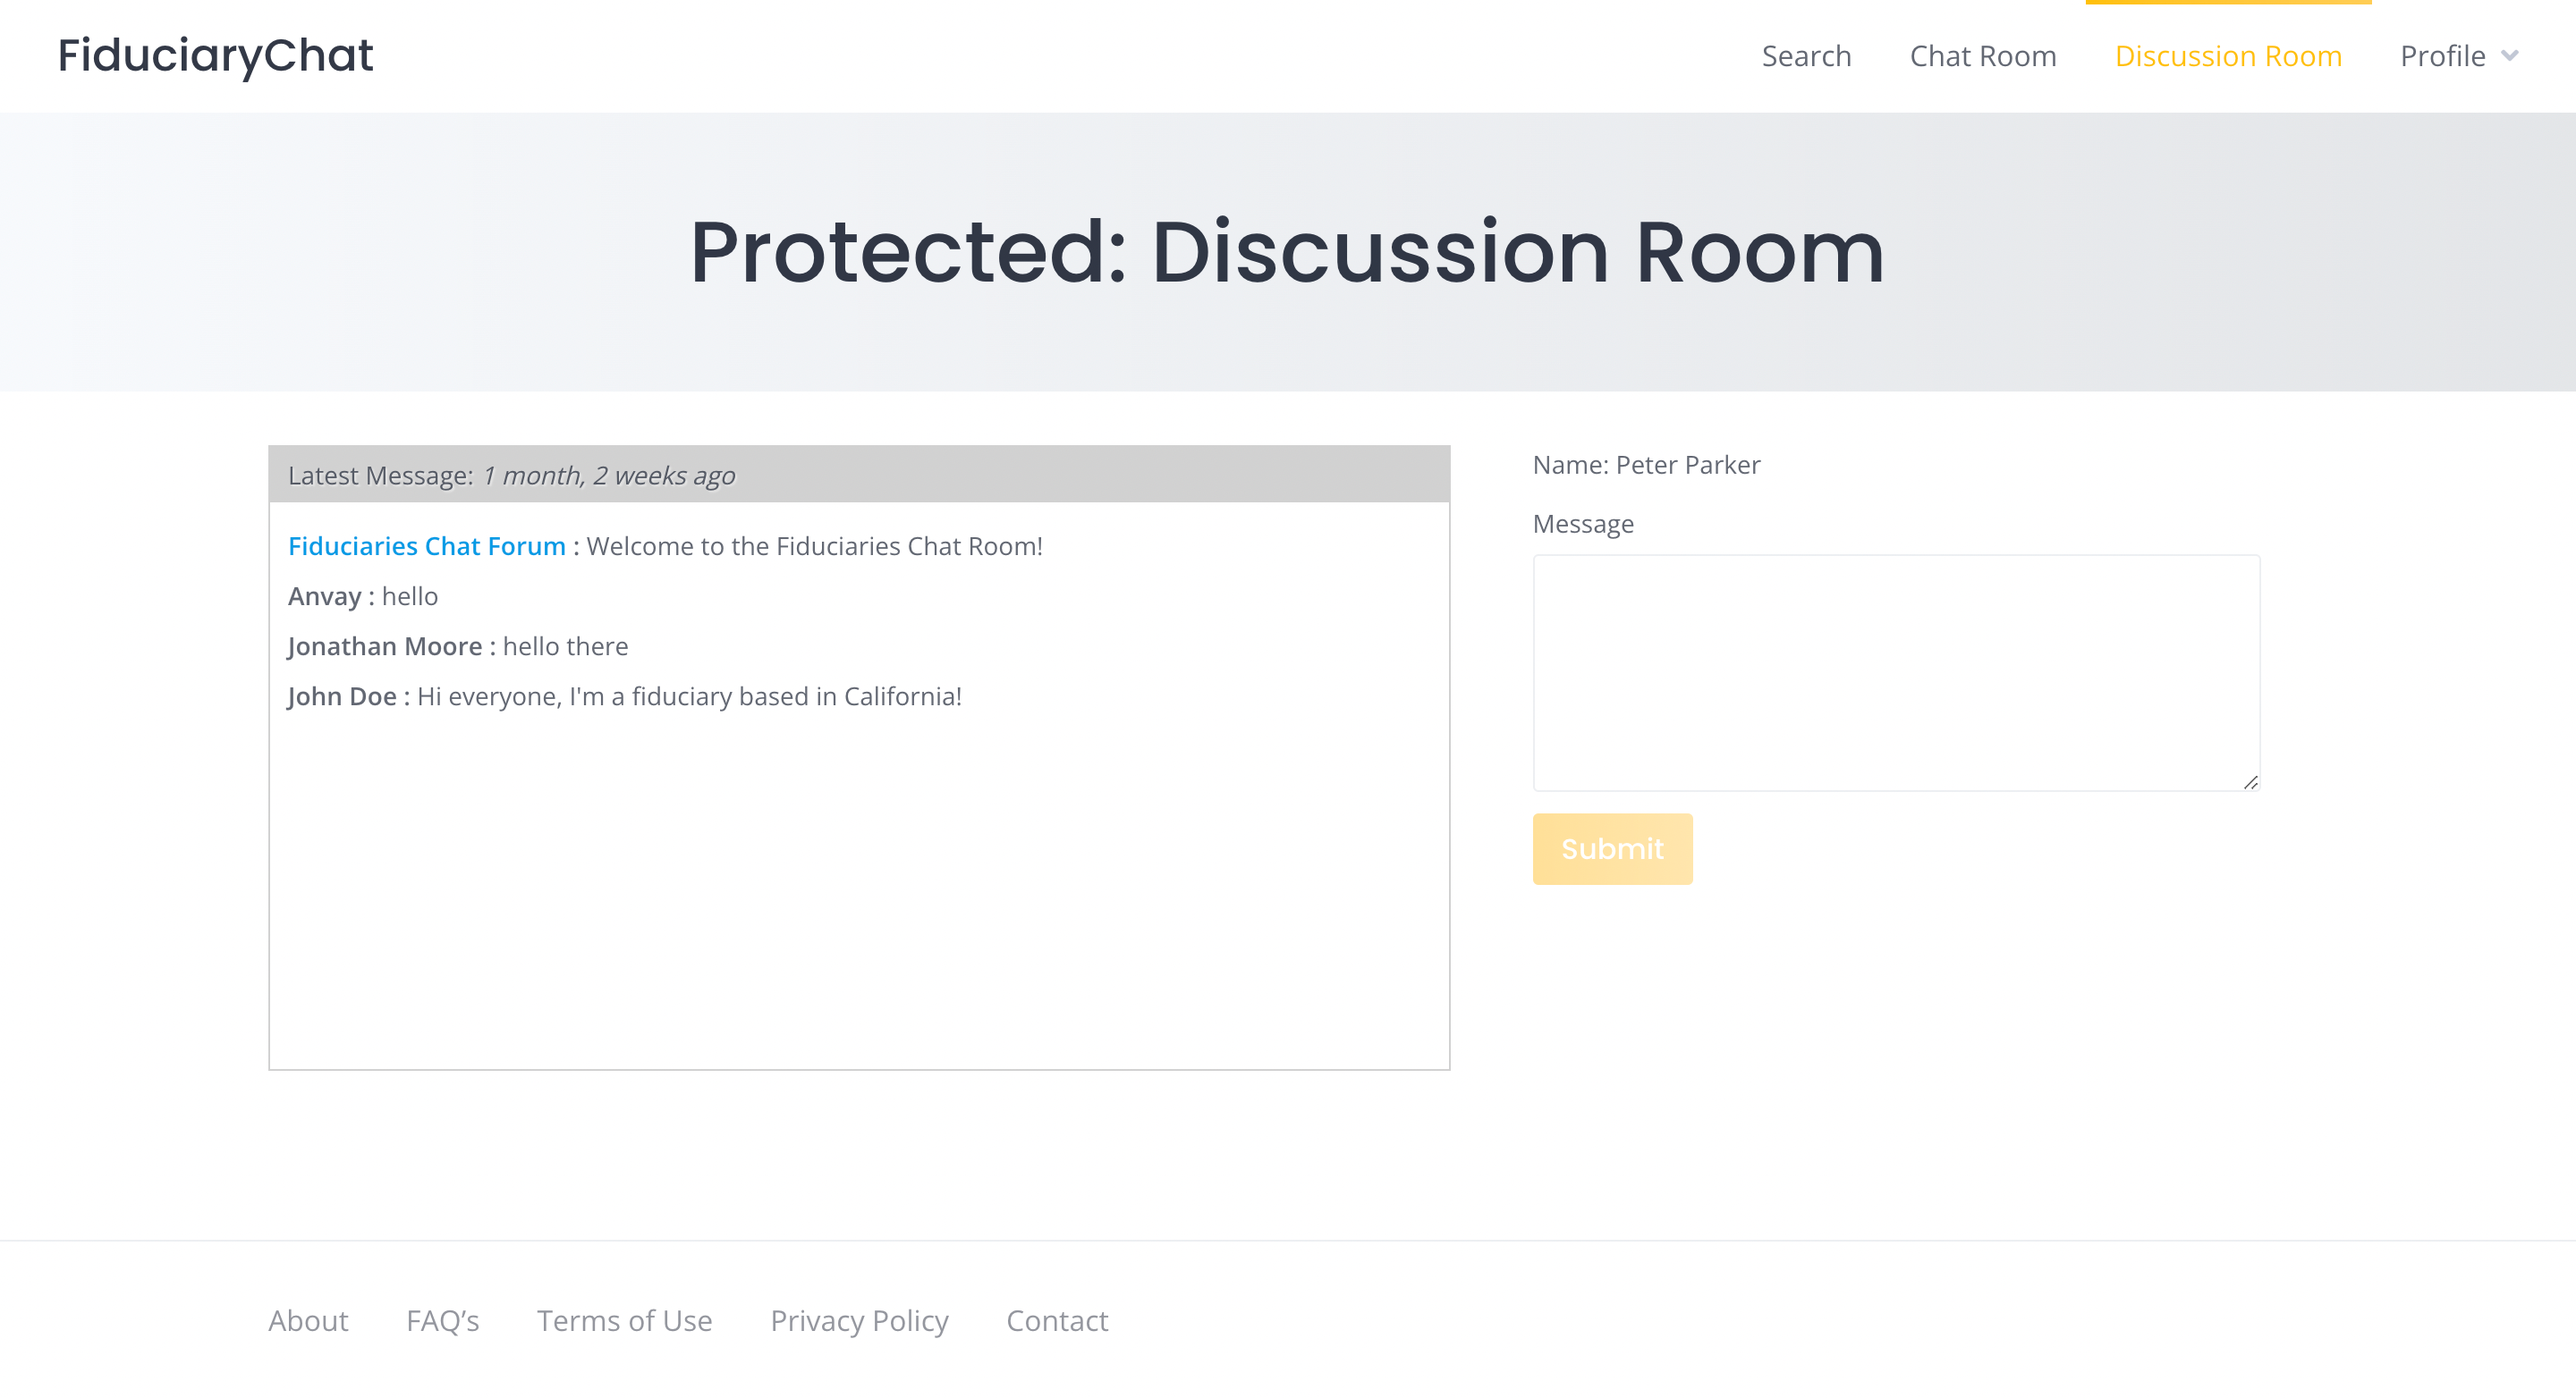
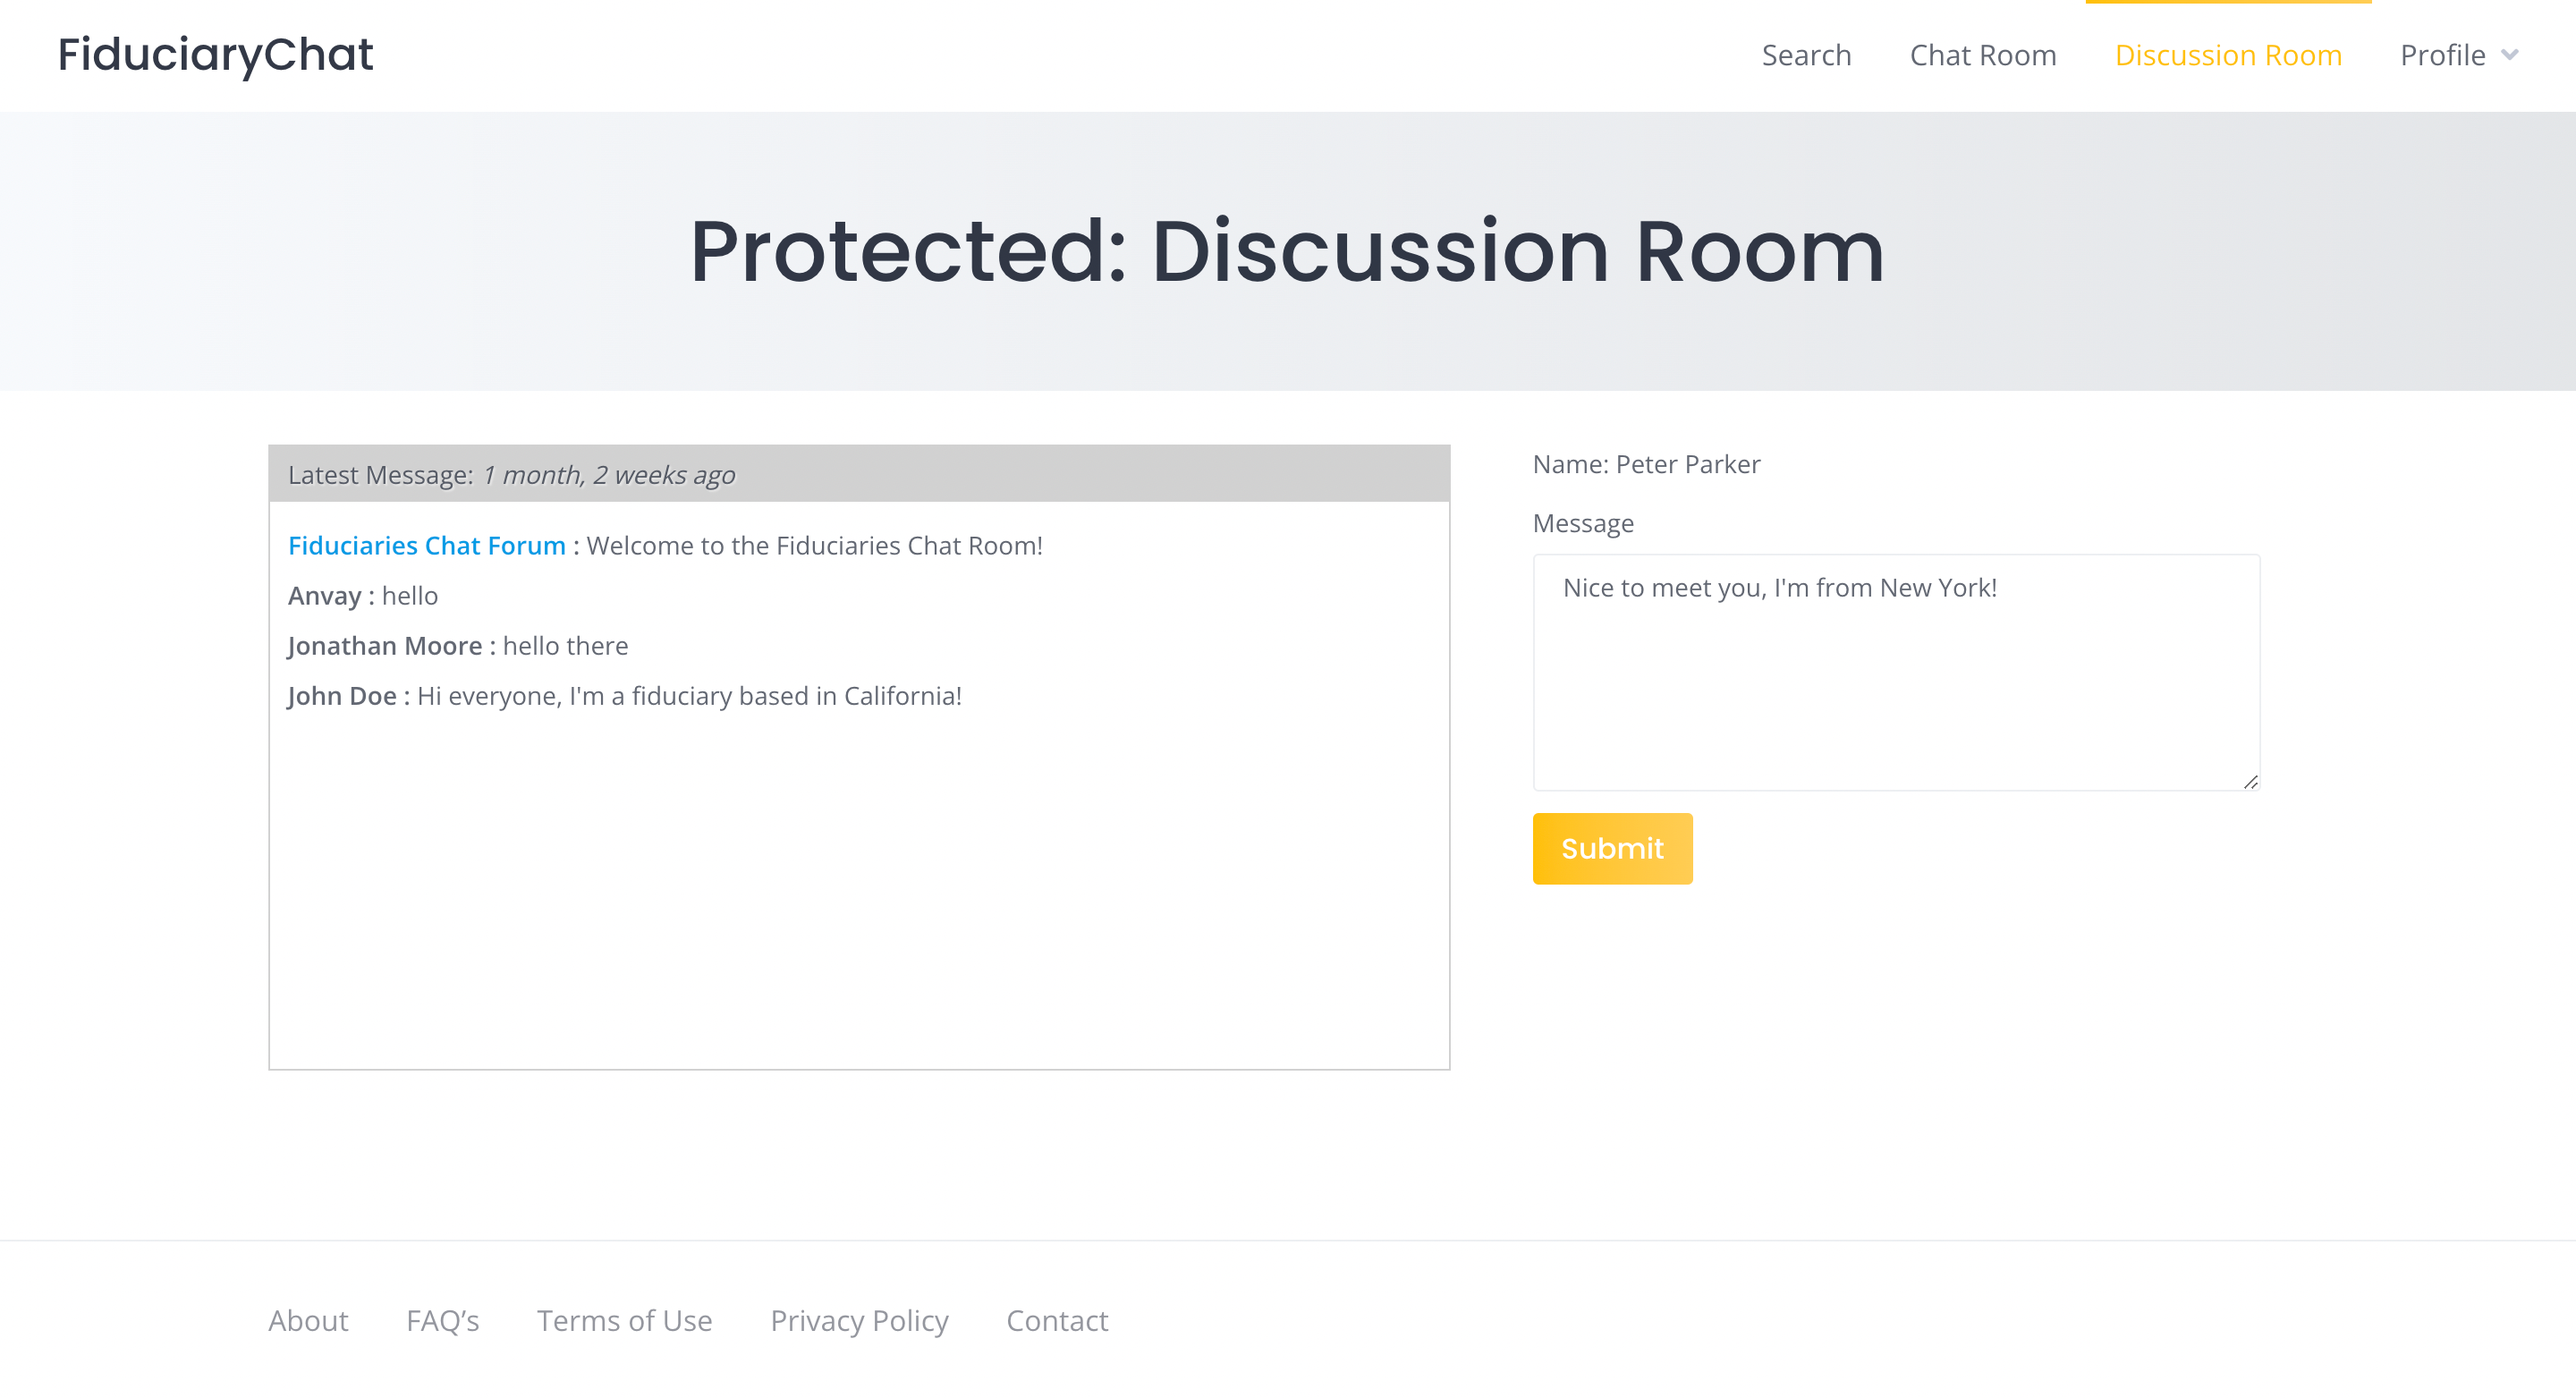
content complete

diff --git a/README.md b/README.md
@@ -47,6 +47,7 @@
 ![Profile](/images/profile1.png)
 1. After that’s entered, the user will land on this blank Profile page, to which they can add content by clicking the Settings gear icon and selecting “Edit Profile”.
 2. Here the user can add all their relevant and esteemed information, as well as if they were referred by another advisor, which serves to increase their reputability.
+
 ![Profile2](/images/profile2.png)
 3. The Introduction text box has also been provided as an example message for the financial advisors to advertise themselves to potential clients. They are free to edit the message as they want or write their own.
 4. Because this site is primarily geared toward fiduciaries (hence the name), a secret password is shown if the user selects “Fiduciaries” as one of their Services Provided.
@@ -73,6 +74,28 @@
    <img src="./images/account3.png" style="width: 49%;" alt="Account3">
    <img src="./images/account4.png" style="width: 49%;" alt="Account4">
 </div>
+
+## Discussion Room
+![Discussion1](/images/discussion1.png)
+1. Verified fiduciaries can navigate to the Discussion Room page from the NavBar and are met with this password protected page, wherein they can input their password and gain access to the Fiduciaries-only discussion room.
+2. Messages sent here will be visible to all registered fiduciaries on the website.
+<div style="display: flex;">
+   <img src="./images/discussion2.png" style="width: 49%;" alt="Discussion2">
+   <img src="./images/discussion3.png" style="width: 49%;" alt="Discussion3">
+</div>
+
+## New Homepage
+![NewHomepage](/images/newhomepage.png)
+1. Finally, logged-in users no longer see the original homepage, as the promotional page is irrelevant to them.
+2. Instead, when the user clicks on the FiduciaryChat button at the top left, they are seamlessly guided to the Search page, as that is what they will be using to find other financial advisors and communicate with them.
+
+## Logout
+![Logout1](/images/logout1.png)
+1. Once the financial advisor is finished using the website, they can choose to logout by hovering on the Profile dropdown in the top right corner and selecting “Logout”.
+2. This will redirect them back to the original homepage that everyone sees when they first open the FiduciaryChat website.
+
+![Logout2](/images/logout2.png)
+
 
 
 // check writing suggestions with Grammarly
